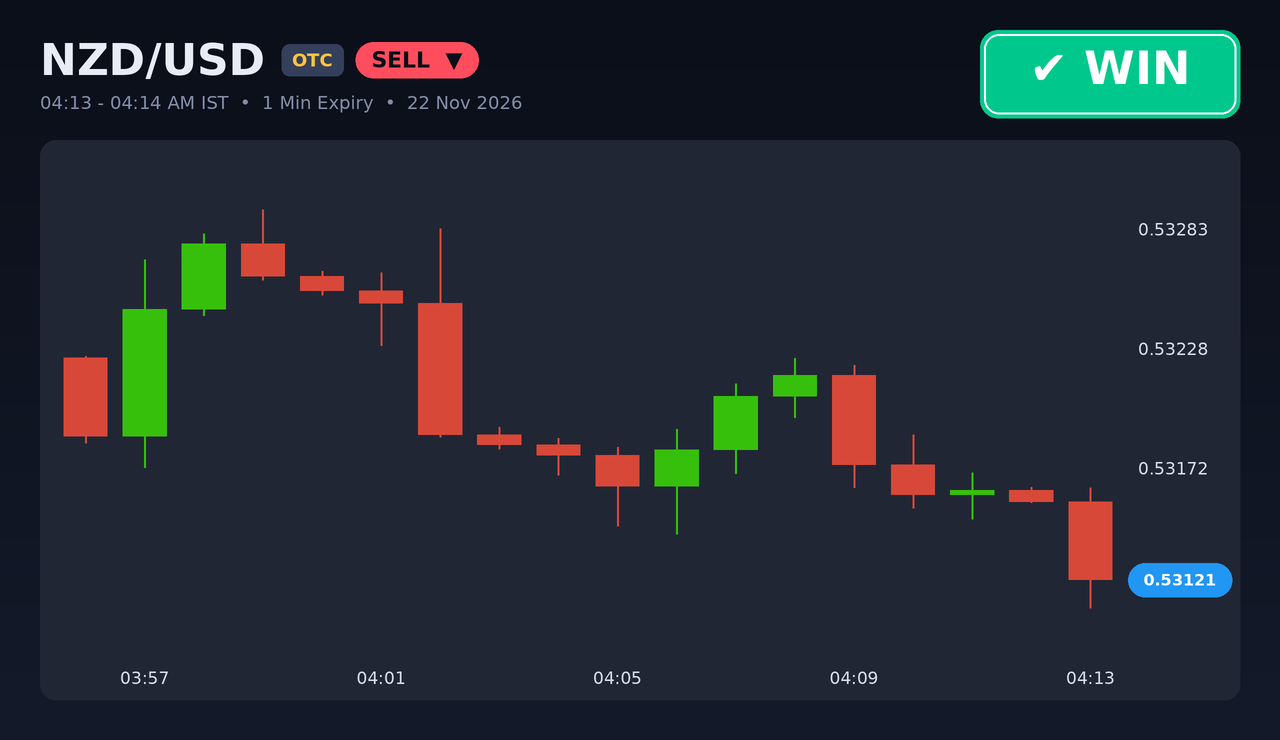
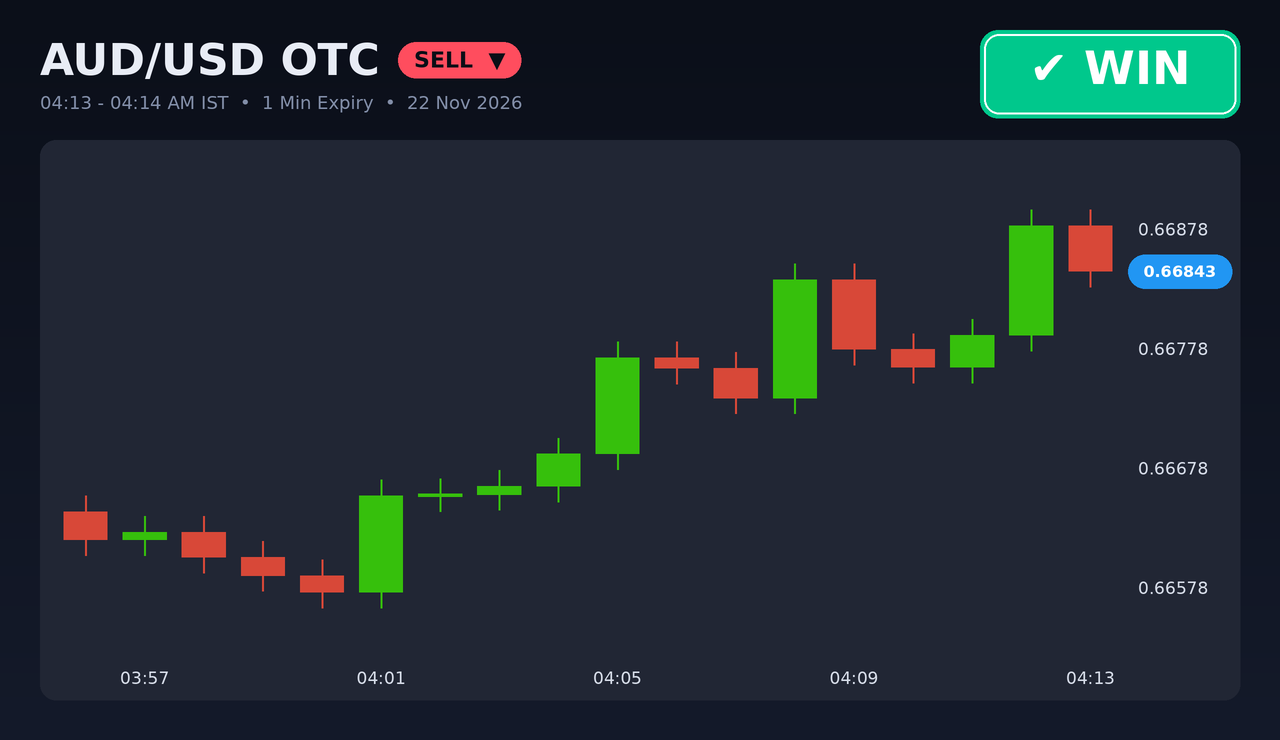
Chart title: OTC/LIVE as plain text next to the pair
Claude-Session: https://claude.ai/code/session_017ptHxXU1jqpg71v1AAAYG2

diff --git a/chart.py b/chart.py
@@ -78,16 +78,9 @@ def trade_chart(pair, direction, df, start_ms, entry, exit_price, result, expiry
     en = datetime.fromtimestamp(end_ms / 1000, timezone.utc).astimezone(IST)
 
     # ---------- header ----------
-    tag = "OTC" if pair.endswith(" OTC") else ("LIVE" if pair.endswith(" LIVE") else "")
-    base = pair.rsplit(" ", 1)[0] if tag else pair
-    dr.text((s(40), s(34)), base, fill=TEXT, font=_font(44, True))
-    x0 = 40 + dr.textlength(base, font=_font(44, True)) / S + 16
-    if tag:
-        tw = dr.textlength(tag, font=_font(18, True)) / S + 24
-        tcol = GOLD if tag == "OTC" else (77, 220, 255)
-        dr.rounded_rectangle([s(x0), s(44), s(x0 + tw), s(76)], radius=s(8), fill=(52, 63, 92))
-        dr.text((s(x0 + tw / 2), s(60)), tag, fill=tcol, font=_font(18, True), anchor="mm")
-        x0 += tw + 12
+    # pair name with OTC / LIVE written right next to it (plain text, no separate badge)
+    dr.text((s(40), s(34)), pair, fill=TEXT, font=_font(44, True))
+    x0 = 40 + dr.textlength(pair, font=_font(44, True)) / S + 18
     lbl = ("BUY  ▲" if up else "SELL  ▼")
     bw = dr.textlength(lbl, font=_font(22, True)) / S + 32
     dr.rounded_rectangle([s(x0), s(42), s(x0 + bw), s(78)], radius=s(18), fill=side_col)
